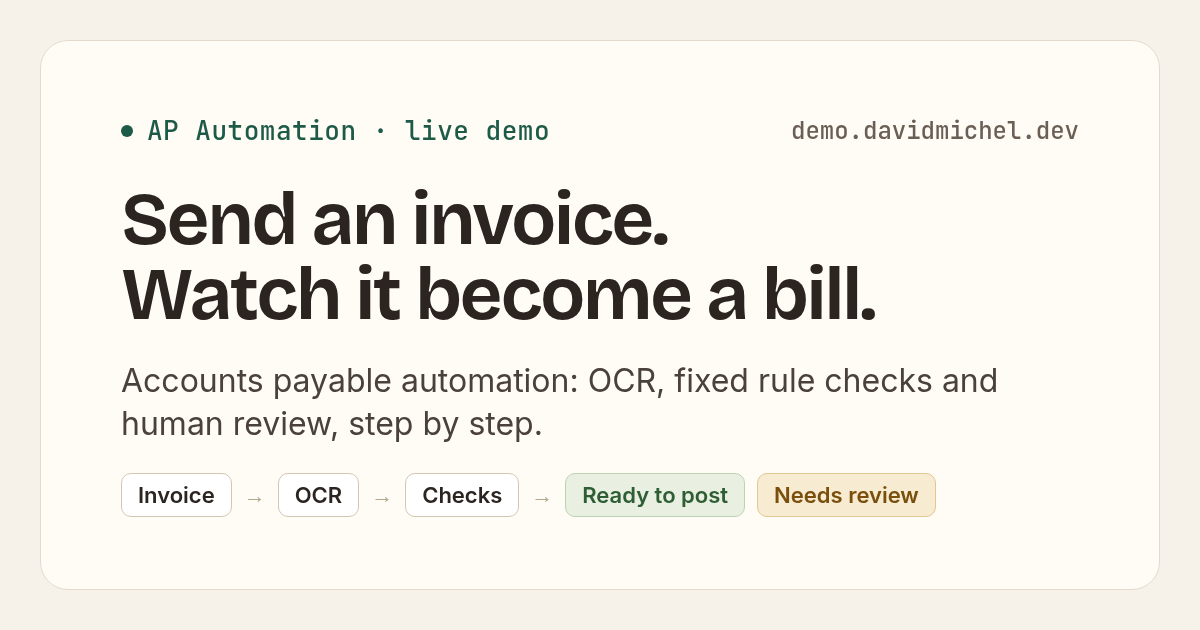
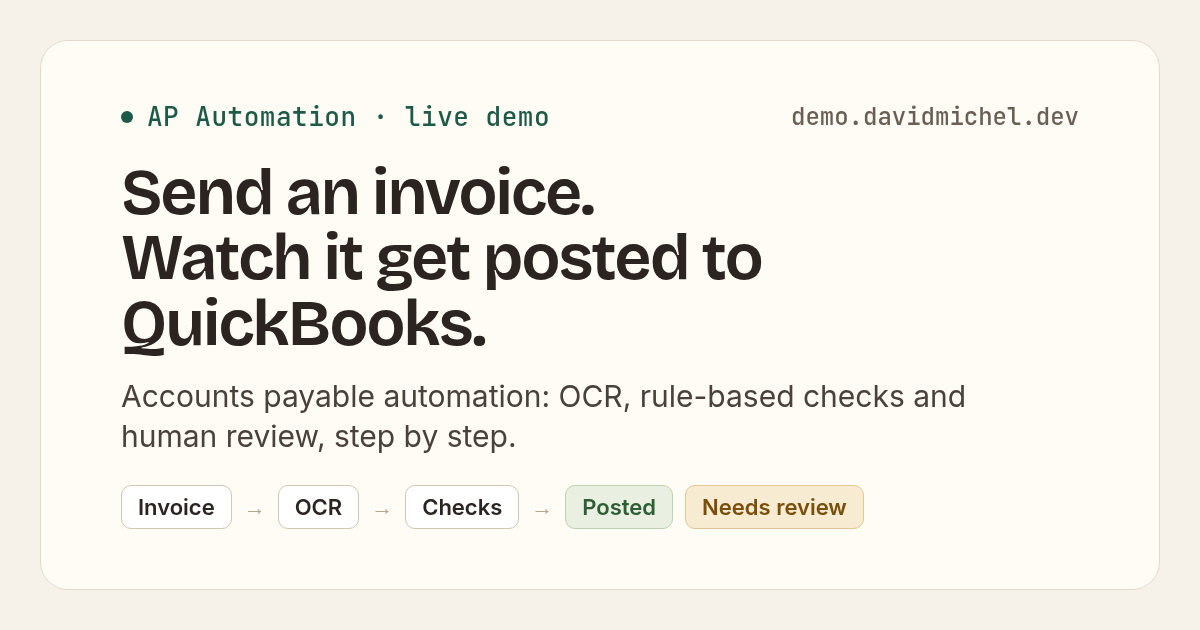
feat(demo): Escape closes the confidence tooltip, headline names QuickBooks posting
- Escape closes the confidence info tooltip (WCAG 1.4.13): a few lines
  in static/info.js, loaded from the shared base template. Opening still
  needs no script (hover, keyboard focus, tap); after Escape it stays
  closed until the pointer and focus leave its button.
- Scores: a test pins the rounding down (0.9775 shows as 97%).
- Headline: "Send an invoice. Watch it get posted to QuickBooks." on the
  start page and in the share image's alt text; where "bill" names the
  QuickBooks record it now reads "QuickBooks bill" (bill preview page,
  card link, start page, docs, README).
- Share image: chips "Posted" and "Needs review", subtitle "rule-based
  checks".

diff --git a/services/core/app/web/templates/demo_bill.html b/services/core/app/web/templates/demo_bill.html
@@ -1,6 +1,6 @@
 {% extends "demo_base.html" %}
 {% from "demo_icons.html" import icon %}
-{% block title %}Bill preview{% endblock %}
+{% block title %}QuickBooks bill preview{% endblock %}
 {% block description %}The QuickBooks bill an invoice would create: vendor, dates, lines, tax and total. In the demo, nothing is sent.{% endblock %}
 {% block header_right %}
 <span class="who"><span class="who-name">{{ minutes_left }} min left</span><span class="who-role">Session {{ session.code }}</span></span>
@@ -9,12 +9,12 @@
 <div class="demo">
 <a class="back" href="/s/{{ session.code }}#invoices">{{ icon("arrow-left", "sm") }}Your invoices</a>
 <section class="demo-intro">
-  <h1>Bill preview</h1>
+  <h1>QuickBooks bill preview</h1>
   <p class="muted">{{ bill.supplier_name }} · invoice {{ bill.invoice_number }} · <strong class="num">{{ bill.total | money(bill.currency) }}</strong></p>
 </section>
 
 {% if preview.get("error") %}
-<p class="note error" role="alert">This bill can't be prepared: {{ preview.get("message") }}</p>
+<p class="note error" role="alert">This QuickBooks bill can't be prepared: {{ preview.get("message") }}</p>
 {% else %}
 <p class="note ok">This is exactly what would be sent to QuickBooks. In the demo, nothing is sent.</p>
 
@@ -42,7 +42,7 @@
 <section class="demo-section">
   <h2>Next, in the live system</h2>
   <ol class="demo-next">
-    <li>The bill is created in QuickBooks with the original document attached.</li>
+    <li>The QuickBooks bill is created, with the original document attached.</li>
     <li>Bank transactions (Plaid) are matched to open bills by amount, date window and supplier name, using the ECB rate for foreign currencies.</li>
     <li>A match records the payment; anything uncertain goes to a person.</li>
   </ol>

diff --git a/services/core/app/web/templates/info.html b/services/core/app/web/templates/info.html
@@ -1,7 +1,8 @@
 {# The confidence score's explanation, next to the score on the review page and the demo's cards.
-   No JavaScript: the text shows while the button is hovered, focused (keyboard) or tapped (phones
-   focus or hover the tapped button), and screen readers read it as the button's description. The
-   nearest ancestor with class "info-anchor" places it: the text spans that box's width. #}
+   CSS opens it while the button is hovered, focused (keyboard) or tapped (phones focus or hover the
+   tapped button); screen readers read it as the button's description. Escape closes it: the only
+   script involved (static/info.js). The nearest ancestor with class "info-anchor" places it: the
+   text spans that box's width. #}
 {% from "demo_icons.html" import icon %}
 {% macro confidence_info(id, threshold) -%}
 <span class="info"><button type="button" class="info-btn" aria-label="About the confidence score" aria-describedby="{{ id }}">{{ icon("info-circle") }}</button><span class="info-tip" role="tooltip" id="{{ id }}">How sure the system is that it read this invoice correctly. It combines how clearly the text could be read with how many key details (supplier, invoice number, date, currency and total) were found. Below {{ threshold }}, the invoice goes to a person for review.</span></span>

diff --git a/services/core/app/web/templates/demo_base.html b/services/core/app/web/templates/demo_base.html
@@ -14,12 +14,12 @@
 <meta property="og:image" content="{{ site_url }}/static/og-demo.png">
 <meta property="og:image:width" content="1200">
 <meta property="og:image:height" content="630">
-<meta property="og:image:alt" content="AP Automation live demo: send an invoice, watch it become a bill. Invoice, OCR, checks, then ready to post or needs review.">
+<meta property="og:image:alt" content="AP Automation live demo: send an invoice, watch it get posted to QuickBooks. Invoice, OCR, checks, then posted or needs review.">
 <meta name="twitter:card" content="summary_large_image">
 <meta name="twitter:title" content="{{ self.title() }} | AP Automation demo">
 <meta name="twitter:description" content="{{ self.description() }}">
 <meta name="twitter:image" content="{{ site_url }}/static/og-demo.png">
-<meta name="twitter:image:alt" content="AP Automation live demo: send an invoice, watch it become a bill.">
+<meta name="twitter:image:alt" content="AP Automation live demo: send an invoice, watch it get posted to QuickBooks.">
 {% endblock %}
 {% block styles %}<link rel="preload" href="/static/fonts/bricolage-grotesque-latin-wght.woff2" as="font" type="font/woff2" crossorigin>
 <link rel="stylesheet" href="/static/demo.css">{% endblock %}

diff --git a/services/core/app/web/templates/demo_start.html b/services/core/app/web/templates/demo_start.html
@@ -5,8 +5,8 @@
 {% block main %}
 <div class="demo">
 <section class="demo-intro">
-  <h1>Send an invoice. Watch it become a QuickBooks bill.</h1>
-  <p class="muted">Each invoice is read by OCR, checked against fixed rules (totals, tax, dates, duplicates, bank details), then either prepared as a bill or sent to a person for review. You see every step.</p>
+  <h1>Send an invoice. Watch it get posted to QuickBooks.</h1>
+  <p class="muted">Each invoice is read by OCR, checked against fixed rules (totals, tax, dates, duplicates, bank details), then either prepared as a QuickBooks bill or sent to a person for review. You see every step.</p>
 </section>
 
 <section class="demo-compare" aria-label="Before and after automation">
@@ -27,7 +27,7 @@
   <ul class="demo-facts">
     <li>One click: no account, no sign-in, nothing to type.</li>
     <li>{{ limits.session_minutes }} minutes, up to {{ limits.files_per_session }} files.</li>
-    <li>Nothing is posted to QuickBooks: you get the bill it would receive.</li>
+    <li>Nothing is posted to QuickBooks: you see the QuickBooks bill it would create.</li>
   </ul>
   {% endif %}
 </section>

diff --git a/services/core/app/web/static/info.js b/services/core/app/web/static/info.js
@@ -1,0 +1,17 @@
+// Escape closes an open info tooltip (WCAG 1.4.13: dismissible without moving the pointer or focus).
+// The tooltip opens with CSS alone (hover, keyboard focus, tap); this only adds the dismissal. It stays
+// closed until both the pointer and the focus have left its button, so it never pops back on its own.
+"use strict";
+document.addEventListener("keydown", (event) => {
+  if (event.key !== "Escape") return;
+  document.querySelectorAll(".info:hover, .info:focus-within").forEach((info) => info.classList.add("info-dismissed"));
+});
+function reopenLater(event) {
+  const info = event.target instanceof Element ? event.target.closest(".info") : null;
+  if (!info) return;
+  setTimeout(() => {
+    if (!info.matches(":hover, :focus-within")) info.classList.remove("info-dismissed");
+  });
+}
+document.addEventListener("mouseout", reopenLater);
+document.addEventListener("focusout", reopenLater);

diff --git a/services/core/app/web/templates/demo_items.html b/services/core/app/web/templates/demo_items.html
@@ -16,7 +16,7 @@
   <ol class="card-steps">
     {% for state, text, info in c.steps %}<li class="step-{{ state }}{{ ' info-anchor' if info }}"><span class="sr">{{ {"done": "Done:", "now": "In progress:", "stop": "Stopped:"}[state] }} </span>{{ text }}{% if info %} {{ confidence_info("conf-info-" ~ card, threshold) }}{% endif %}</li>{% endfor %}
   </ol>
-  {% if c.bill %}<a class="go demo-go-small" href="/s/{{ session.code }}/bills/{{ c.bill }}">See the bill preview</a>{% endif %}
+  {% if c.bill %}<a class="go demo-go-small" href="/s/{{ session.code }}/bills/{{ c.bill }}">See the QuickBooks bill preview</a>{% endif %}
   {% if c.review %}<a class="go demo-go-small" href="/s/{{ session.code }}/review/{{ c.review }}">See the review page</a>{% endif %}
 </article>
 {% else %}

diff --git a/services/core/app/web/static/app.css b/services/core/app/web/static/app.css
@@ -293,4 +293,5 @@ textarea { resize: vertical; }
 /* The transparent top border bridges the gap, so the pointer can move onto the text without closing it */
 .info-tip { display: none; position: absolute; z-index: 20; left: 0; right: 0; top: 100%; padding: 10px 12px; border-top: 6px solid transparent; background: var(--ink) padding-box; border-radius: 14px; color: #ffffff; font: 400 0.8125rem/1.5 var(--font); letter-spacing: normal; text-align: left; text-transform: none; white-space: normal; filter: drop-shadow(0 6px 12px rgb(0 0 0 / 0.18)); }
 .info:hover .info-tip, .info:focus-within .info-tip { display: block; }
+.info.info-dismissed .info-tip { display: none; }  /* Escape (static/info.js) */
 .conf-line { display: flex; align-items: center; gap: 6px; }

diff --git a/services/core/app/web/templates/base.html b/services/core/app/web/templates/base.html
@@ -8,6 +8,7 @@
 <link rel="icon" href="/static/favicon.svg">
 <link rel="stylesheet" href="/static/app.css">
 {% block styles %}{% endblock %}
+<script src="/static/info.js" defer></script>
 {% block scripts %}<script src="/static/app.js" defer></script>{% endblock %}
 </head>
 <body>

diff --git a/services/core/tests/test_demo_site.py b/services/core/tests/test_demo_site.py
@@ -192,6 +192,7 @@ def test_a_sample_goes_from_queued_to_ready_with_its_bill(site, live_now):  # no
     assert "All checks passed" in page and "coded to Office Supplies" in page
     assert "Read (stored OCR result): 4 lines · confidence 98%" in page and "fields found" not in page
     assert 'aria-describedby="conf-info-1"' in page and "Below 85%, the invoice goes to a person for review." in page
+    assert '<script src="/static/info.js" defer></script>' in page and c.get("/static/info.js").status_code == 200
     assert "Sent</span>" in page  # the sample's button is gone
     [invoice] = query(site, "SELECT id FROM ap.invoices")
     bill = c.get(f"/s/{code}/bills/{invoice['id']}")
@@ -209,7 +210,7 @@ def test_a_review_card_says_why_in_the_review_page_words(site):
     page = c.get(f"/s/{code}").text
     assert "Needs review" in page and "The lines and tax don&#39;t add up to the invoice total." in page
     assert "Total (875.13 EUR) doesn&#39;t match lines + adjustments + tax (865.13 EUR): 10.00 EUR off." in page
-    assert "Sent to review: Total doesn&#39;t add up" in page and "See the bill preview" not in page
+    assert "Sent to review: Total doesn&#39;t add up" in page and "See the QuickBooks bill preview" not in page
 
 
 def test_a_bill_of_another_session_is_not_found(site):

diff --git a/services/core/tests/test_review_page.py b/services/core/tests/test_review_page.py
@@ -174,6 +174,10 @@ def test_the_badge_shows_the_routed_score_with_an_info_button_explaining_it(item
     tip = head[head.index('id="conf-info">') :]
     assert 'role="tooltip"' in head and "How sure the system is that it read this invoice correctly." in tip
     assert "Below 85%, the invoice goes to a person for review." in tip and "<script" not in head
+    # Escape closes it: the one script involved, from a file (the CSP allows no inline script)
+    assert '<script src="/static/info.js" defer></script>' in page
+    script = c.get("/static/info.js")
+    assert script.status_code == 200 and '"Escape"' in script.text and "info-dismissed" in script.text
 
 
 def test_the_raw_ocr_average_stays_under_the_raw_values(samples):

diff --git a/services/core/tests/test_formatting.py b/services/core/tests/test_formatting.py
@@ -25,7 +25,18 @@ def test_money_has_the_currency_s_usual_decimals(value, currency, shown):
 
 
 @pytest.mark.parametrize(
-    "score, shown", [(0.973, "97%"), ("0.8499", "84%"), (0.85, "85%"), (1, "100%"), (0, "0%"), (None, "–")]
+    "score, shown",
+    [
+        (0.9775, "97%"),
+        ("0.9775", "97%"),
+        (0.973, "97%"),
+        (0.9999, "99%"),
+        ("0.8499", "84%"),
+        (0.85, "85%"),
+        (1, "100%"),
+        (0, "0%"),
+        (None, "–"),
+    ],
 )
 def test_scores_are_whole_percentages_rounded_down(score, shown):
     assert formatting.percent(score) == shown

diff --git a/docs/review.md b/docs/review.md
@@ -72,7 +72,7 @@ A separate web process (`review-web` container) with only the browser routes. Ho
   - **Original invoice (as received):** the document rendered on the server as page images; the original file is a download only.
   - **Extracted data (OCR):** the **Confidence** badge next to the title (e.g. "Confidence 97% · high"), then **why it needs review** in plain sentences, then the key fields. Line items, tax lines, raw values (printed dates, the parts of the confidence score) and the history (every correction, the decision) are behind **Show details** toggles, closed by default.
 - **Plain-language reasons:** [`app/web/reasons.py`](../services/core/app/web/reasons.py) is the only place that turns a reason code into words: a short label for the list badge, a sentence for the item page. The core's specific detail (e.g. which line costs too much) is shown under the sentence. A stated amount that doesn't match its parts reads "Total (875.13 EUR) doesn't match lines + adjustments + tax (865.13 EUR): 10.00 EUR off." Messages stored before this wording ("total 875.13 ≠ lines + adjustments + tax 865.13", "confidence 0.71 below threshold 0.85", ISO dates) are shown in it; the stored text is not rewritten. A test scans the core's source and fails if a code has no sentence.
-- **Confidence badge** (display only, nothing stored changes): the item's confidence score (the OCR page average times the share of required fields found, the score the core routes on) as a whole percentage, rounded down so a score just under the threshold never reads as the threshold. **Red** below the review threshold (`CONFIDENCE_THRESHOLD`, the same setting the core uses, so red always means "below the threshold"), **orange** from the threshold up to `REVIEW_CONFIDENCE_HIGH`, **green** from there. The badge also says it in words (high, close to the threshold, below the threshold), and the line under it gives the cut-offs ("Review threshold 85% · high from 95%"). An **info button** next to the badge explains the score in plain English, with the threshold; it opens on hover, keyboard focus or tap, without JavaScript, and screen readers read it as the button's description. The two parts of the score are under **Show details: raw values** ("Reading quality (OCR average)", "Key details found"), as percentages too. Green means the page was read well, not that the data is right; both cut-offs were kept after two calibrations (see [calibration](calibration.md)).
+- **Confidence badge** (display only, nothing stored changes): the item's confidence score (the OCR page average times the share of required fields found, the score the core routes on) as a whole percentage, rounded down so a score just under the threshold never reads as the threshold. **Red** below the review threshold (`CONFIDENCE_THRESHOLD`, the same setting the core uses, so red always means "below the threshold"), **orange** from the threshold up to `REVIEW_CONFIDENCE_HIGH`, **green** from there. The badge also says it in words (high, close to the threshold, below the threshold), and the line under it gives the cut-offs ("Review threshold 85% · high from 95%"). An **info button** next to the badge explains the score in plain English, with the threshold; it opens on hover, keyboard focus or tap (CSS only), Escape closes it (a few lines of JavaScript, `static/info.js`), and screen readers read it as the button's description. The two parts of the score are under **Show details: raw values** ("Reading quality (OCR average)", "Key details found"), as percentages too. Green means the page was read well, not that the data is right; both cut-offs were kept after two calibrations (see [calibration](calibration.md)).
 - **One decision panel:** a single form offering only the actions the core allows on the item, **Approve** first and pre-selected. On a fraud item **nothing is pre-selected**: the fraud warning stands at the top of the panel, and the confirm button stays disabled until the reviewer picks **Verified with the supplier** or **Reject**. Without JavaScript the button can be pressed, and the server refuses a fraud submission with no action chosen, with a clear error and nothing saved. Choosing an action shows only its fields, then one confirm button. This works without JavaScript: CSS shows the chosen action's fields. The form posts every action's fields, named `<action>.<field>`. The server keeps only the chosen action's fields and decides exactly as on that action's own route (`POST /items/{id}/{action}`, kept as is). After a refused decision, the panel stays on the action tried.
   - **Approve / Verified:** the expense account search box. Typing suggests matching accounts, grouped by type with the supplier's default first. It is keyboard-accessible: arrows to move, Enter to choose, Escape to cancel. Without JavaScript it is a plain grouped list. Then choose whether the account becomes the supplier's default ("save as default" on a first invoice, "make it the new default" later). Tick **accept the suggested dates** when the dates were ambiguous: the panel says so, and the confirm button stays disabled until it is ticked (without JavaScript, the core refuses the approval as before). On a **possible fixed asset** the account is not pre-filled with the supplier's default: the reviewer chooses an expense or a fixed asset account, and the button stays disabled until then. The core refuses an approval without an account on such an item, whoever sends it (the page shows it as a 422 with nothing saved; the machine API answers 409). A note is optional, and required for verification.
   - **Correct the data:** the header fields, pre-filled; only the fields actually changed are sent and recorded.
